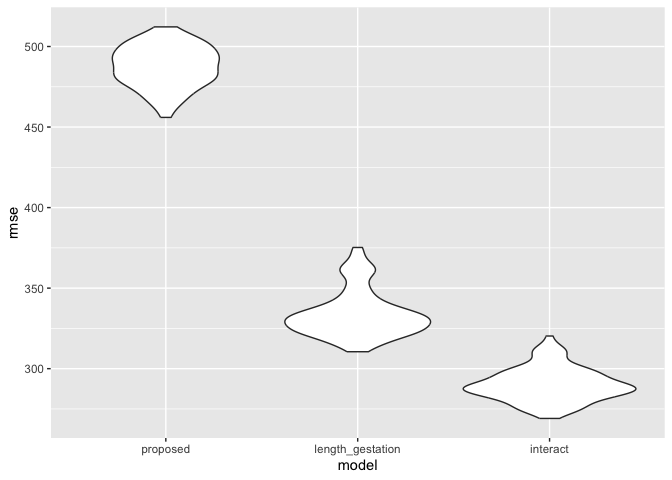
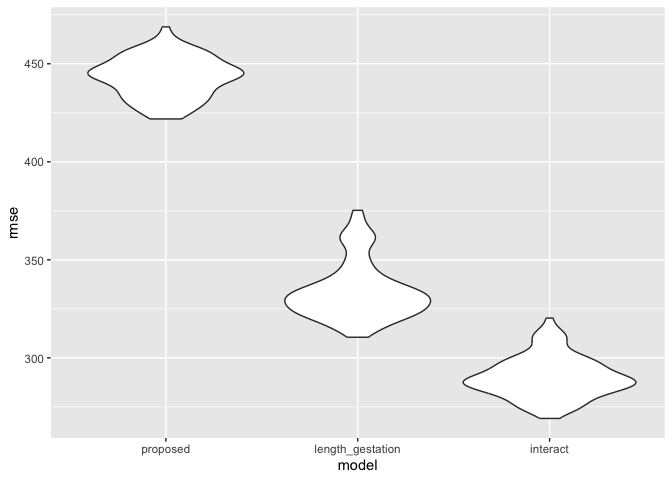
commit for problem three codes

diff --git a/homework-6.md b/homework-6.md
@@ -323,7 +323,7 @@ variables.
 #### Our model will contain delwt,gaweeks, smoken, ppwt and mheight as predictors for bwt.
 
 ``` r
-lm_model = lm(bwt ~ delwt + gaweeks + smoken+ppwt+mheight, data = birthweight_df)
+lm_model = lm(bwt ~ delwt + gaweeks + smoken + ppwt + mheight, data = birthweight_df)
 # Fit the model
 
 prediction_result = birthweight_df|>
@@ -361,7 +361,7 @@ cv_df =
 cv_df = 
   cv_df |> 
   mutate(
-    proposed_mod  = map(train, \(df) lm(bwt ~ wtgain + momage + smoken, data = df)),
+    proposed_mod  = map(train, \(df) lm(bwt ~ delwt + gaweeks + smoken + ppwt + mheight, data = df)),
     length_gestation_mod  = map(train, \(df) lm(bwt ~  blength + gaweeks, data = df)),
     interact_mod  = map(train, \(df) lm(bwt ~  bhead + blength + babysex + bhead * blength + blength* babysex + bhead* babysex + bhead * blength * babysex, data = df))) |> 
   mutate(
